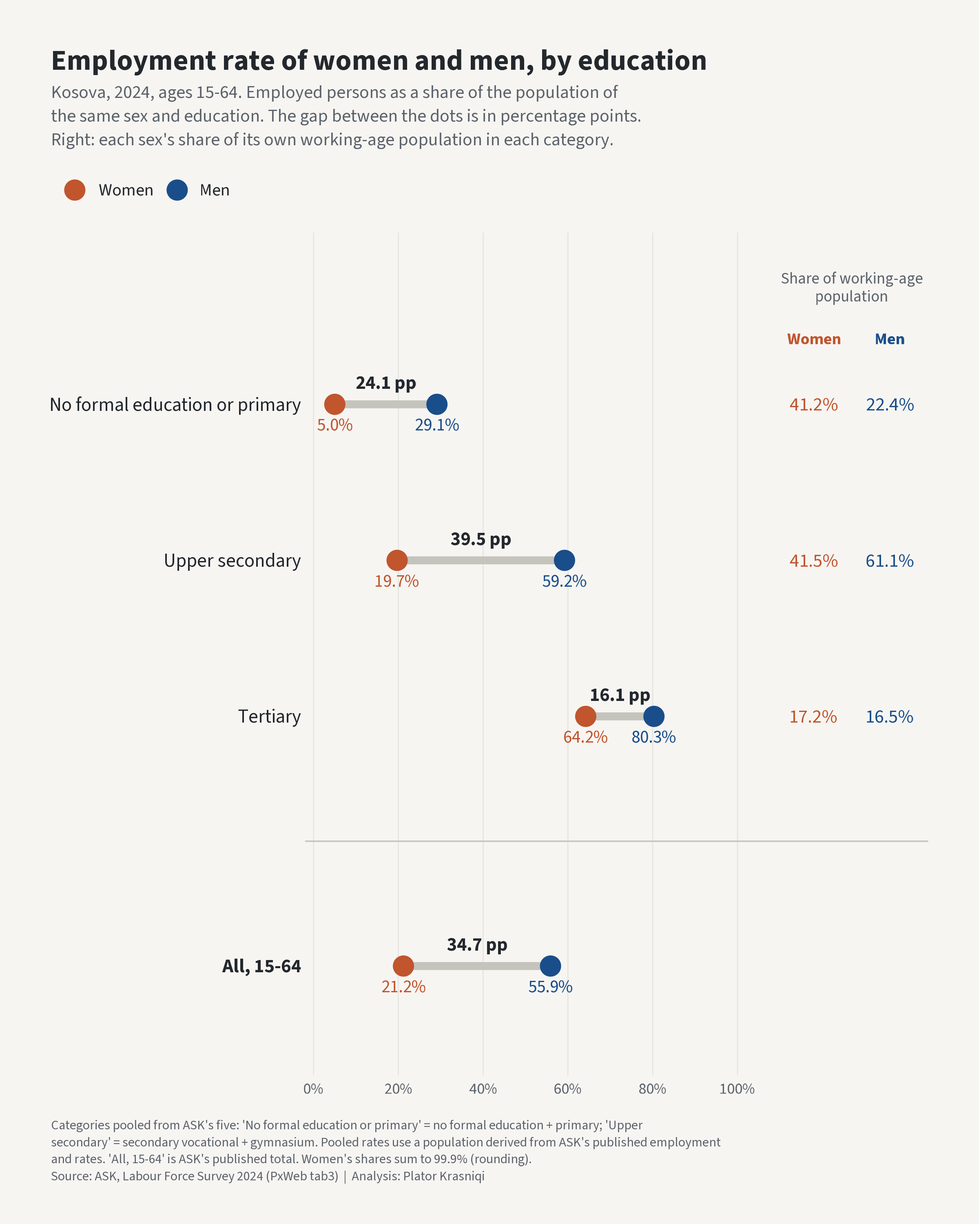
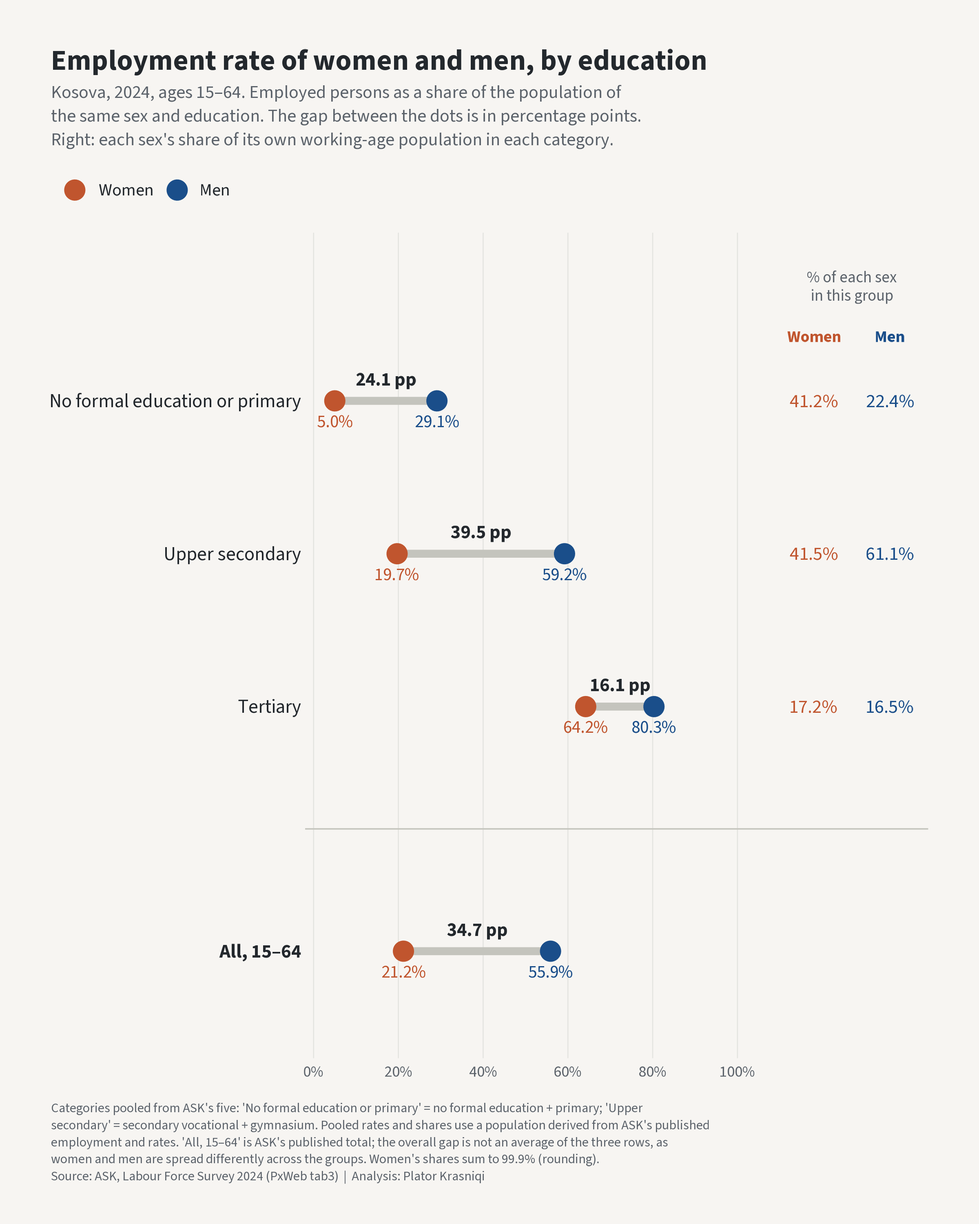
gender-employment-gap: apply accepted cold-review fixes
Headline and catalogue row: whole-number LFS shares (about 7-16%, the same on
the rebuilt and the published gap), the census result by age band in place of
the nine-version range, "whether men's or women's education mix is the
reference"; catalogue row adds the women's education gradient.

README (generated by 08): precision note under the headline; two-questions
paragraph reworded with the age confound; "controlling for" tied to the
within part and the three broad groups; five-category split (04); census
gap column renamed and explained; reference-order reversal; new limitations
(LFS vs census education mix, participation and unemployment, emigration,
north weighting, census-universe bias size, no LFS education x age table);
series breaks moved to an appendix.

Figure (05): "% of each sex in this group" header, en dashes, caption says
shares are derived and the overall gap is not an average of the rows.

diff --git a/gender-employment-gap/README.md b/gender-employment-gap/README.md
@@ -2,9 +2,11 @@
 
 An accounting split of the gap between women's and men's employment in Kosova by education level, from ASK's Labour Force Survey 2024, checked against the 2024 census.
 
-**In 2024, 21.2% of women aged 15–64 in Kosova were employed, against 55.9% of men: a gap of 34.7 percentage points. Differences in education level between women and men account for 7.0% to 15.9% of that gap, 2.4 to 5.5 points depending on how the education groups are weighted (an accounting split, not a causal effect). Across all nine combinations of source, age band and weighting checked, the share is 7% to 16%.**
+**In 2024, 21.2% of women aged 15–64 in Kosova were employed, against 55.9% of men: a gap of 34.7 percentage points. Differences in education level between women and men account for about 7% to 16% of that gap, depending on whether men's or women's education mix is the reference (an accounting split, not a causal effect). In the 2024 census the same split gives about 12% to 16% at ages 15–64 and 15% to 16% at ages 25–64, which leaves out most students.**
 
-Two different questions sit behind this, and they have different answers. **How does women's employment vary with education?** A great deal: 5.0% of women with no formal or primary education are employed, against 64.2% of women with tertiary education. **How much of the gap between women and men do differences in their education account for?** Little, since women and men differ much less in education than in employment: 41.2% of working-age women and 22.4% of men are in the lowest education group, and women are slightly more likely than men to have tertiary education (17.2% against 16.5%). Within every education level the gap stays large, from 16.1 points (tertiary) to 39.5 points (upper secondary). Neither fact says what would happen to women's employment if their education changed; that is not identified here.
+The ranges show the choice of reference, not sampling error, which cannot be estimated from published tables. Each share is of the gap rebuilt from the three education groups (34.6 points in the LFS, against the published 34.7) and is computed from unrounded inputs; on either base the LFS range rounds to the same whole numbers.
+
+Two different questions sit behind this, and they have different answers. **How does women's employment vary with education?** A great deal: 5.0% of women with no formal or primary education are employed, against 64.2% of women with tertiary education, though the groups also differ in age: the lowest group includes teenagers still in school. **How much of the gap between women and men do differences in their education account for?** A minority of it. Women and men are spread differently across education levels (in the LFS, 41.2% of working-age women and 22.4% of men are in the lowest group), but the difference lies mainly between the two lower groups, where women's employment is low in both (5.0% and 19.7%). Women are slightly more likely than men to have tertiary education (17.2% against 16.5%, LFS). Within each of the three pooled education groups the gap stays large, from 16.1 points (tertiary) to 39.5 points (upper secondary). Neither fact says what would happen to women's employment if their education changed; that is not identified here.
 
 ![Employment rate of women and men by education level, Kosova, 2024](output/employment_gap_by_education_2024_linkedin_1200.png)
 
@@ -20,13 +22,13 @@ All from ASK (Agjencia e Statistikave të Kosovës), ASKdata PxWeb, English node
   - `tab3.px` — employment ('000s) and employment-to-population ratio (%), by education attainment and sex, age group 15–64. The headline table.
   - `tab0.px` — population by sex and age group (checks the derived population).
   - `tab1b.px` — main labour-market indicators (checks the headline rates).
-  - `tab20.px` — unemployment by education and sex (read in the first check; not used in the results).
+  - `tab20.px` — unemployment by education and sex (used only for the participation limitation).
   - `tab29.px` — accuracy of the national headline estimates.
 - **Census 2024**:
   - `lc06ensus.px` (Census population > 4_Labour market) — employed by gender, education level and age group.
   - `tabcensusedu1.px` (Census population > 2_Education) — population aged 15 and over by educational attainment, gender and age.
   - `census2024_00.px` (Census population > 1_Demographic_Characteristics) — population by age and sex (checks the census universe).
-- **ASK documents** on how the LFS series was produced (annual and quarterly LFS reports, and ASK's LFS metadata as catalogued by IHSN), cited by page in the limitations. They are downloaded by `R/01_e2_lfs_detail_check.R` and not redistributed here.
+- **ASK documents** on how the LFS series was produced (annual and quarterly LFS reports, and ASK's LFS metadata as catalogued by IHSN), cited by page in the appendix. They are downloaded by `R/01_e2_lfs_detail_check.R` and not redistributed here.
 
 Deliberately excluded:
 
@@ -67,7 +69,7 @@ It splits into a part *within* education levels, a weighted average of the withi
 
 Each adds up to G exactly. The difference between the first two is the interaction of the two parts; the third splits it evenly.
 
-This is what "controlling for education" means here: compare women and men within each education level, then average those within-level gaps. The average depends on whose education mix supplies the weights, which is why there is a range.
+"Controlling for education" here means only this: comparing women and men within the same one of three broad education groups, then averaging those within-group gaps. That average is the within part; the headline reports the other part, the composition part. Whatever differs between women and men inside a group, such as age, field of study, region or family situation, stays in the within part. The average depends on whose education mix supplies the weights, which is why there is a range.
 
 ## Key results
 
@@ -90,7 +92,9 @@ The gap within upper secondary (39.5 points) is larger than the overall gap (34.
 | women's education mix | men's rates | 29.13 | 5.50 | 15.9 |
 | the average of the two mixes | the average of the two | 30.66 | 3.97 | 11.5 |
 
-The composition part is 2.4 to 5.5 points, 7.0% to 15.9% of the gap, depending on the weighting. The within-level part is 29.1 to 32.2 points.
+The composition part is 2.4 to 5.5 points, 7.0% to 15.9% of the gap, depending on the weighting. The within-level part is 29.1 to 32.2 points. Shares are computed from unrounded inputs; rebuilding them from this rounded table gives slightly different decimals.
+
+With ASK's five unpooled categories instead of three groups, the same split gives a composition part of 2.5 to 5.7 points, 7.3% to 16.4% of a rebuilt gap of 34.63 points.
 
 **Census check.** The same three groups, from the 2024 census, for ages 15–64 and, to leave out most students, 25–64. The census measures employment differently from the LFS (activity status at the census reference date, against the ILO definition averaged over a year-round survey), so its levels differ, mainly for women.
 
@@ -111,7 +115,7 @@ The composition part is 2.4 to 5.5 points, 7.0% to 15.9% of the gap, depending o
 
 **Composition share in all nine combinations** (three source and age-band versions × three weightings):
 
-| Source, ages | Within-level gaps weighted by | Composition, points | Gap, points | Composition, % of gap |
+| Source, ages | Within-level gaps weighted by | Composition, points | Gap rebuilt from three groups, points | Composition, % of gap |
 |---|---|---|---|---|
 | LFS, 15–64 | men's education mix | 2.44 | 34.63 | 7.0 |
 | LFS, 15–64 | women's education mix | 5.50 | 34.63 | 15.9 |
@@ -123,7 +127,11 @@ The composition part is 2.4 to 5.5 points, 7.0% to 15.9% of the gap, depending o
 | Census, 25–64 | women's education mix | 4.75 | 31.70 | 15.0 |
 | Census, 25–64 | the average of the two mixes | 4.91 | 31.70 | 15.5 |
 
-Across all nine the composition part is 7.0% to 16.0% of the gap: less than a fifth every time.
+Each share is of that version's own gap rebuilt from the three groups. It differs from the published LFS total by rounding (-0.07 points) and from the census total rows by the Other/Unknown rows left out (+0.07 and +0.08 points).
+
+Across all nine the composition part is 7.0% to 16.0% of the gap: less than a fifth every time. In the census alone it is 11.6% to 16.0%.
+
+Which reference gives the larger composition part is not fixed. In the census at 25–64, weighting by men's mix gives the larger one (5.07 against 4.75 points); in the other two versions it gives the smaller.
 
 ## Reproduce
 
@@ -166,39 +174,50 @@ The PxWeb extracts are committed in `data/raw/` and are not re-downloaded. The A
 
 - **No causal claim.** The split is accounting: it says how much of the gap the different education mix of women and men accounts for, under one set of weights at a time. It does not say what would happen if women's education changed. Age, place of residence, family situation and who goes on to study all differ between these groups, and these tables cannot separate them. Whether education and employment are causally linked is not identified here.
 - **What the within-level gap is.** It may include discrimination, preferences, care responsibilities, and differences in age, region or field of study. These data cannot tell them apart, and the gap is not a measure of any one of them.
-- **Three broad levels.** "Education" here means three groups. Years of schooling, vocational against general tracks, field of study and quality are not observed. With ASK's five unpooled categories the picture is the same, but one ordering changes: the gap for *No formal education* alone (14.5 points) is smaller than the tertiary gap (16.1).
-- **Age band.** Ages 15–64 include young people still in education. In the census the gap is 26.3 points at 15–64 and 31.6 points at 25–64, so leaving out most students makes it larger.
-- **No trend.** Only 2024 is used. ASK's own documents record changes that make earlier years hard to compare:
-  - 2012 redesign: Eurostat methodology, continuous survey, new frame from the 2011 census: [ASK, *Anketa e Fuqisë Punëtore 2024*](https://askapi.rks-gov.net/Custom/085719f6-0ef0-4365-afa7-9a02c8d10cf5.pdf), p. 3.
-  - 2012: sample phased in quarter by quarter; weights computed per quarter: [ASK LFS 2012 metadata (IHSN catalogue, DDI export)](https://catalog.ihsn.org/metadata/export/7242/ddi), p. 1.
-  - 2013/2014: weights adjusted to a projected population total: [ASK LFS 2014 metadata (IHSN catalogue, DDI export)](https://catalog.ihsn.org/metadata/export/7244/ddi), p. 1.
-  - 2013: a similar adjustment, to a projection variant: [ASK LFS 2014 metadata (IHSN catalogue, DDI export)](https://catalog.ihsn.org/metadata/export/7244/ddi), p. 1.
-  - 2020 Q2: field collection stopped for three months (non-response): [ASK, *Anketa e Fuqisë Punëtore 2021*](https://askapi.rks-gov.net/Custom/d483c4e9-d88b-4c56-b888-4a05f5fff76e.pdf), p. 16.
-  - 2020-21: new law barred external interviewer staff; collection later covered the preceding months retrospectively: [ASK, *Anketa e Fuqisë Punëtore 2021*](https://askapi.rks-gov.net/Custom/d483c4e9-d88b-4c56-b888-4a05f5fff76e.pdf), p. 16.
-  - 2020 Q4: households refusing contact were interviewed by phone: [ASK, *Labour Force Survey Q4 2020*](https://askapi.rks-gov.net/Custom/2c09a68c-35f9-4131-9c66-beb6255acfb0.pdf), p. 11.
-  - 2022 H1: two further one-month interruptions of field interviews: [ASK, *Anketa e Fuqisë Punëtore 2021*](https://askapi.rks-gov.net/Custom/d483c4e9-d88b-4c56-b888-4a05f5fff76e.pdf), p. 16.
-  - From March 2022: re-interviews by telephone (CATI): [ASK, *Anketa e Fuqisë Punëtore TM3 2022*](https://askapi.rks-gov.net/Custom/9bee491c-a7bb-477d-a86c-a5f1f049dab8.pdf), p. 10.
-  - Panel design: delays in collection affect the quality of published data: [ASK, *Anketa e Fuqisë Punëtore TM3 2022*](https://askapi.rks-gov.net/Custom/9bee491c-a7bb-477d-a86c-a5f1f049dab8.pdf), p. 10.
-  - 2021 report: interviews described as CAPI only: [ASK, *Anketa e Fuqisë Punëtore 2021*](https://askapi.rks-gov.net/Custom/d483c4e9-d88b-4c56-b888-4a05f5fff76e.pdf), p. 7.
-  - 2023 report: first interviews CAPI, re-interviews CATI: [ASK, *Anketa e Fuqisë Punëtore 2023*](https://askapi.rks-gov.net/Custom/d8b6019c-eccf-419f-a5b0-9fb7df247ce3.pdf), p. 6.
-  - 2023 report: population base 'estimated' for 2023: [ASK, *Anketa e Fuqisë Punëtore 2023*](https://askapi.rks-gov.net/Custom/d8b6019c-eccf-419f-a5b0-9fb7df247ce3.pdf), p. 15.
-  - 2024 report: population base from the 2024 census: [ASK, *Anketa e Fuqisë Punëtore 2024*](https://askapi.rks-gov.net/Custom/085719f6-0ef0-4365-afa7-9a02c8d10cf5.pdf), p. 12.
-  - In the data: ASK's working-age population (`tab0`) moves from 1,171.8 thousand in 2023 to 1,074.7 thousand in 2024 (-8.3%), against changes of at most 2.9% a year in earlier years; the 2024 base equals the census total (1,602,515).
-  - The split between vocational and general secondary education jumps in 3 years with no explanation found: 2019 (vocational +9.3, gymnasium -11.0 pp); 2021 (vocational -11.5, gymnasium +10.3 pp); 2022 (vocational -9.6, gymnasium +11.3 pp). The pooled upper-secondary group is stable across those years, which is one reason the two are pooled.
-  - No ASK LFS documentation was found for 2015, 2016, 2017, 2018, 2019.
+- **Age band.** Ages 15–64 include young people still in education: teenagers still in school sit in the lowest group and count as not employed. In the census the gap is 26.3 points at 15–64 and 31.6 points at 25–64, and the composition share at 25–64 (15% to 16%) sits at the top of the LFS range. The headline uses 15–64 because ASK publishes no LFS table crossing education, age and sex: of the 104 LFS and census tables scanned, the seven that do are all census tables.
+- **Three broad levels.** "Education" here means three groups. Years of schooling, vocational against general tracks, field of study and quality are not observed. With ASK's five unpooled categories the composition share is 7.3% to 16.4% (Key results), and one ordering changes: the gap for *No formal education* alone (14.5 points) is smaller than the tertiary gap (16.1).
+- **The LFS and the census give different education mixes.** At 15–64 the share of each sex in a group differs between the two sources by up to 9.6 points (upper secondary: women 41.5% in the LFS against 31.9% in the census; men 61.1% against 51.6%). The LFS 2024 weighting base equals the census population, but its education mix does not match the census. The reason is not established here; the shares are the direct input to the composition part.
+- **Employment combines participation and unemployment.** In the LFS, 25.8% of women and 60.6% of men aged 15–64 are in the labour force (employed or unemployed), and the unemployment rate is 18.0% for women and 7.7% for men. The employment gap contains both; this piece does not split them.
+- **Emigration.** Emigration, which may differ by sex and education, shapes who is in the resident population that these tables describe. These tables do not measure it.
+- **No trend.** Only 2024 is used. ASK's documents and the series itself show breaks that make earlier years hard to compare; they are listed in the appendix below.
 - **`lc07ensus` contradicts `lc06ensus`.** At ages 15–64, `lc07ensus` labels 151,876 employed as men and 291,488 as women; `lc06ensus` has the same two numbers the other way round (291,488 men, 151,876 women). Read with its own labels, `lc07ensus` has one cell where employment exceeds population (upper secondary, women 25–64: 126,778 employed against 109,966 people). `lc07ensus` is therefore not used. The census check depends on `lc06ensus` having the correct labels; that agrees with every other source checked, but ASK has not confirmed it (tables last updated 2026-04-22 and 2026-04-20).
 - **LFS and census measure different things.** The census counts 443,364 employed aged 15–64; the LFS 414,493. Women's employment rate is 28.5% in the census and 21.2% in the LFS. The census check tests whether the pattern holds, not the level.
-- **Census universes.** The census education table (`tabcensusedu1`) covers 11,017 fewer people aged 15–64 (1,063,687) than the census population table (`census2024_00`, 1,074,704; also the LFS 2024 weighting base). Census rates therefore combine two slightly different populations: employed from `lc06ensus`, whose universe is not stated, over population from `tabcensusedu1`.
+- **Census universes.** The census education table (`tabcensusedu1`) covers 11,017 fewer people aged 15–64 (1,063,687) than the census population table (`census2024_00`, 1,074,704; also the LFS 2024 weighting base). Census rates therefore combine two slightly different populations: employed from `lc06ensus`, whose universe is not stated, over population from `tabcensusedu1`. If the employed come from the larger universe, census rates are too high by up to about 1.0% of their value.
 - **Census residual categories.** "Other" and "Unknown" education are left out of the census groups. At 15–64: women 800 employed (0.53% of the sex's employed), 2,232 people (0.42%); men 1,150 employed (0.39% of the sex's employed), 2,476 people (0.47%). At 25–64: women 666 employed (0.54% of the sex's employed), 1,349 people (0.33%); men 970 employed (0.39% of the sex's employed), 1,666 people (0.42%).
-- **Northern municipalities.** The census figures include 1,333 employed aged 15–64 in the four northern municipalities, as published. Whether these are enumerated persons or include ASK's estimates is not stated in the table. Coverage of the north by the LFS sample is not stated.
+- **Northern municipalities.** The census figures include 1,333 employed aged 15–64 in the four northern municipalities, as published. Whether these are enumerated persons or include ASK's estimates is not stated in the table. Coverage of the north by the LFS sample is not stated; the LFS weighting base equals the census total including the north, so if the north is not sampled, its population is represented by respondents elsewhere.
 - **Sampling.** The LFS is a sample survey. ASK publishes reliability only for the national headline rates (coefficient of variation of the 15–64 employment rate: 1.20%), not for education × sex cells. The smallest cell is No formal education, female (0.3 thousand employed); pooling with "Primary" limits its weight.
 - **Derived populations.** The derived population summed over the five categories differs from ASK's published 15–64 population by -0.27% (women) and -0.03% (men), and the overall gap recomputed from the three groups differs from the published one by -0.07 points; both are within the rounding of the published rates.
+
+## Appendix: breaks in the LFS series
+
+Not used in the results, which are for one year only. Recorded so that the 2024 figures are not compared with earlier years without care. From ASK's own documents:
+
+- 2012 redesign: Eurostat methodology, continuous survey, new frame from the 2011 census: [ASK, *Anketa e Fuqisë Punëtore 2024*](https://askapi.rks-gov.net/Custom/085719f6-0ef0-4365-afa7-9a02c8d10cf5.pdf), p. 3.
+- 2012: sample phased in quarter by quarter; weights computed per quarter: [ASK LFS 2012 metadata (IHSN catalogue, DDI export)](https://catalog.ihsn.org/metadata/export/7242/ddi), p. 1.
+- 2013/2014: weights adjusted to a projected population total: [ASK LFS 2014 metadata (IHSN catalogue, DDI export)](https://catalog.ihsn.org/metadata/export/7244/ddi), p. 1.
+- 2013: a similar adjustment, to a projection variant: [ASK LFS 2014 metadata (IHSN catalogue, DDI export)](https://catalog.ihsn.org/metadata/export/7244/ddi), p. 1.
+- 2020 Q2: field collection stopped for three months (non-response): [ASK, *Anketa e Fuqisë Punëtore 2021*](https://askapi.rks-gov.net/Custom/d483c4e9-d88b-4c56-b888-4a05f5fff76e.pdf), p. 16.
+- 2020-21: new law barred external interviewer staff; collection later covered the preceding months retrospectively: [ASK, *Anketa e Fuqisë Punëtore 2021*](https://askapi.rks-gov.net/Custom/d483c4e9-d88b-4c56-b888-4a05f5fff76e.pdf), p. 16.
+- 2020 Q4: households refusing contact were interviewed by phone: [ASK, *Labour Force Survey Q4 2020*](https://askapi.rks-gov.net/Custom/2c09a68c-35f9-4131-9c66-beb6255acfb0.pdf), p. 11.
+- 2022 H1: two further one-month interruptions of field interviews: [ASK, *Anketa e Fuqisë Punëtore 2021*](https://askapi.rks-gov.net/Custom/d483c4e9-d88b-4c56-b888-4a05f5fff76e.pdf), p. 16.
+- From March 2022: re-interviews by telephone (CATI): [ASK, *Anketa e Fuqisë Punëtore TM3 2022*](https://askapi.rks-gov.net/Custom/9bee491c-a7bb-477d-a86c-a5f1f049dab8.pdf), p. 10.
+- Panel design: delays in collection affect the quality of published data: [ASK, *Anketa e Fuqisë Punëtore TM3 2022*](https://askapi.rks-gov.net/Custom/9bee491c-a7bb-477d-a86c-a5f1f049dab8.pdf), p. 10.
+- 2021 report: interviews described as CAPI only: [ASK, *Anketa e Fuqisë Punëtore 2021*](https://askapi.rks-gov.net/Custom/d483c4e9-d88b-4c56-b888-4a05f5fff76e.pdf), p. 7.
+- 2023 report: first interviews CAPI, re-interviews CATI: [ASK, *Anketa e Fuqisë Punëtore 2023*](https://askapi.rks-gov.net/Custom/d8b6019c-eccf-419f-a5b0-9fb7df247ce3.pdf), p. 6.
+- 2023 report: population base 'estimated' for 2023: [ASK, *Anketa e Fuqisë Punëtore 2023*](https://askapi.rks-gov.net/Custom/d8b6019c-eccf-419f-a5b0-9fb7df247ce3.pdf), p. 15.
+- 2024 report: population base from the 2024 census: [ASK, *Anketa e Fuqisë Punëtore 2024*](https://askapi.rks-gov.net/Custom/085719f6-0ef0-4365-afa7-9a02c8d10cf5.pdf), p. 12.
+
+In the data:
+
+- ASK's working-age population (`tab0`) moves from 1,171.8 thousand in 2023 to 1,074.7 thousand in 2024 (-8.3%), against changes of at most 2.9% a year in earlier years; the 2024 base equals the census total (1,602,515).
+- The split between vocational and general secondary education jumps in 3 years with no explanation found: 2019 (vocational +9.3, gymnasium -11.0 pp); 2021 (vocational -11.5, gymnasium +10.3 pp); 2022 (vocational -9.6, gymnasium +11.3 pp). The pooled upper-secondary group is stable across those years, which is one reason the two are pooled.
+- No ASK LFS documentation was found for 2015, 2016, 2017, 2018, 2019.
 
 ## Licence and reuse
 
 Kosova, all ASK data: Kosovo Agency of Statistics (KAS), licensed under CC BY 4.0 (https://creativecommons.org/licenses/by/4.0/; terms: https://ask.rks-gov.net/AboutUs/author-rights, retrieved 2026-10-31). Modified: education categories pooled; populations derived from published employment and rates. No endorsement by KAS is implied. The repository licence covers the code only.
 
-Design, decisions and verification by the author; code written with AI assistance (Claude Code). One independent cold-context review was run before publication.
+Design, decisions and verification by the author; code written with AI assistance (Claude Code). One independent cold-context review was run before publication; its points were assessed one by one and the accepted ones applied in this version.
 
 ---
 

diff --git a/README.md b/README.md
@@ -33,7 +33,7 @@ The same standards apply to every piece here:
 | [`census-vacancy/`](census-vacancy) | The population shrank while the housing stock ballooned, leaving a fast-growing stock of empty homes | ASK Census 2011 & 2024 (PxWeb); geoBoundaries ADM2 |
 | [`diaspora-account/`](diaspora-account) | The number Kosova's public conversation runs on is a fraction of what the IMF's allocation attributes to the diaspora: 38.6% of GDP in 2019, against the 12.1% the workers' remittance line shows on its own | CBK balance of payments (time series); ASK GDP by expenditure (PxWeb); IMF Country Report No. 21/41 |
 | [`energy-poverty/`](energy-poverty) | One in five households in Kosova — 21.6% in 2024, by ASK's own SILC series — cannot keep their home adequately warm | ASK SILC (PxWeb); Eurostat EU-SILC |
-| [`gender-employment-gap/`](gender-employment-gap) | In 2024 (LFS, ages 15–64), differences in education level between women and men account for 7.0–15.9% of Kosova's 34.7-point gender employment gap (an accounting split, not a causal effect); across all nine source, age-band and weighting combinations checked, 7–16% | ASK Labour Force Survey 2024 and Census 2024 (PxWeb) |
+| [`gender-employment-gap/`](gender-employment-gap) | In 2024 (LFS, ages 15–64), differences in education level between women and men account for about 7–16% of Kosova's 34.7-point gender employment gap (an accounting split, not a causal effect), while women's own employment rate rises steeply with education (5% to 64%); in the 2024 census, about 12–16% | ASK Labour Force Survey 2024 and Census 2024 (PxWeb) |
 | [`hicp-gap/`](hicp-gap) | In 2025 Kosova's consumer prices rose 5.3% December to December against 2.0% in the euro area, and the within-division term (+3.4 pp) is larger than the whole +3.3 pp gap, with composition slightly negative (−0.1 pp) | Eurostat HICP, ECOICOP ver.2 (`prc_hicp_minr`, `prc_hicp_iw`) |
 | [`ookla-digital-divide/`](ookla-digital-divide) | A 4.5× municipal gap: fastest Prishtina (~125 Mbps) to slowest Leposaviq (~28 Mbps) | Ookla Speedtest open data; geoBoundaries ADM2; VIIRS nighttime lights |
 | [`remittances-regional-context/`](remittances-regional-context) | Kosova's remittances have equalled 15–22% of GDP throughout the period, consistently the highest in the Western Balkans | World Bank WDI |

diff --git a/gender-employment-gap/output/catalogue_row.md b/gender-employment-gap/output/catalogue_row.md
@@ -1,1 +1,1 @@
-| [`gender-employment-gap/`](gender-employment-gap) | In 2024 (LFS, ages 15–64), differences in education level between women and men account for 7.0–15.9% of Kosova's 34.7-point gender employment gap (an accounting split, not a causal effect); across all nine source, age-band and weighting combinations checked, 7–16% | ASK Labour Force Survey 2024 and Census 2024 (PxWeb) |
+| [`gender-employment-gap/`](gender-employment-gap) | In 2024 (LFS, ages 15–64), differences in education level between women and men account for about 7–16% of Kosova's 34.7-point gender employment gap (an accounting split, not a causal effect), while women's own employment rate rises steeply with education (5% to 64%); in the 2024 census, about 12–16% | ASK Labour Force Survey 2024 and Census 2024 (PxWeb) |
